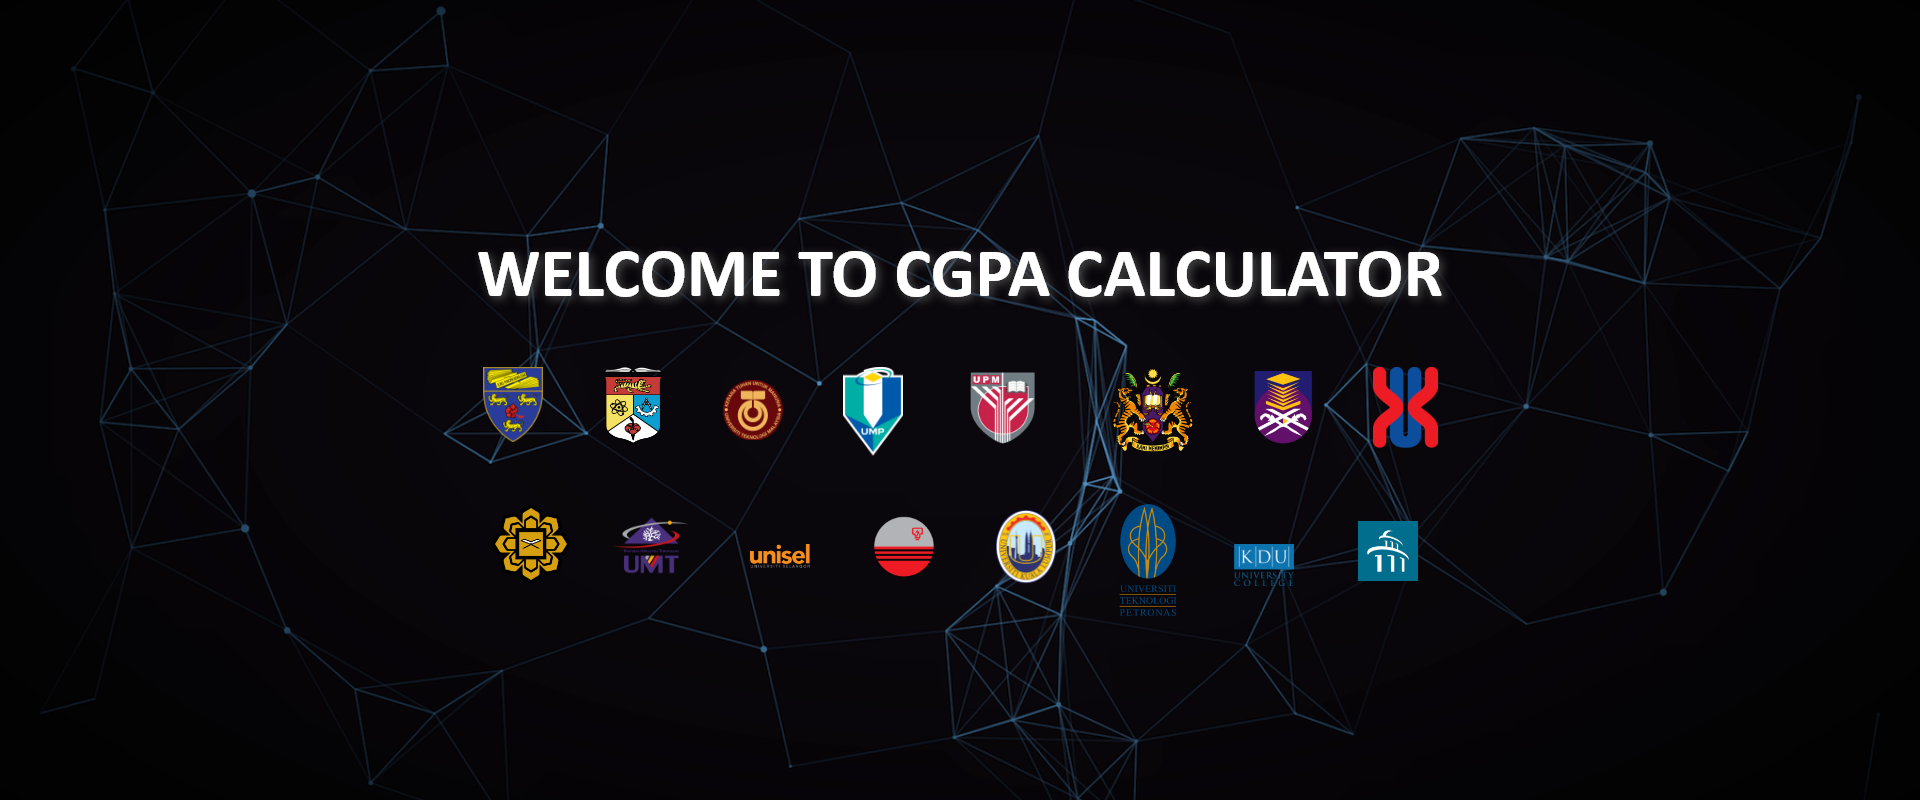
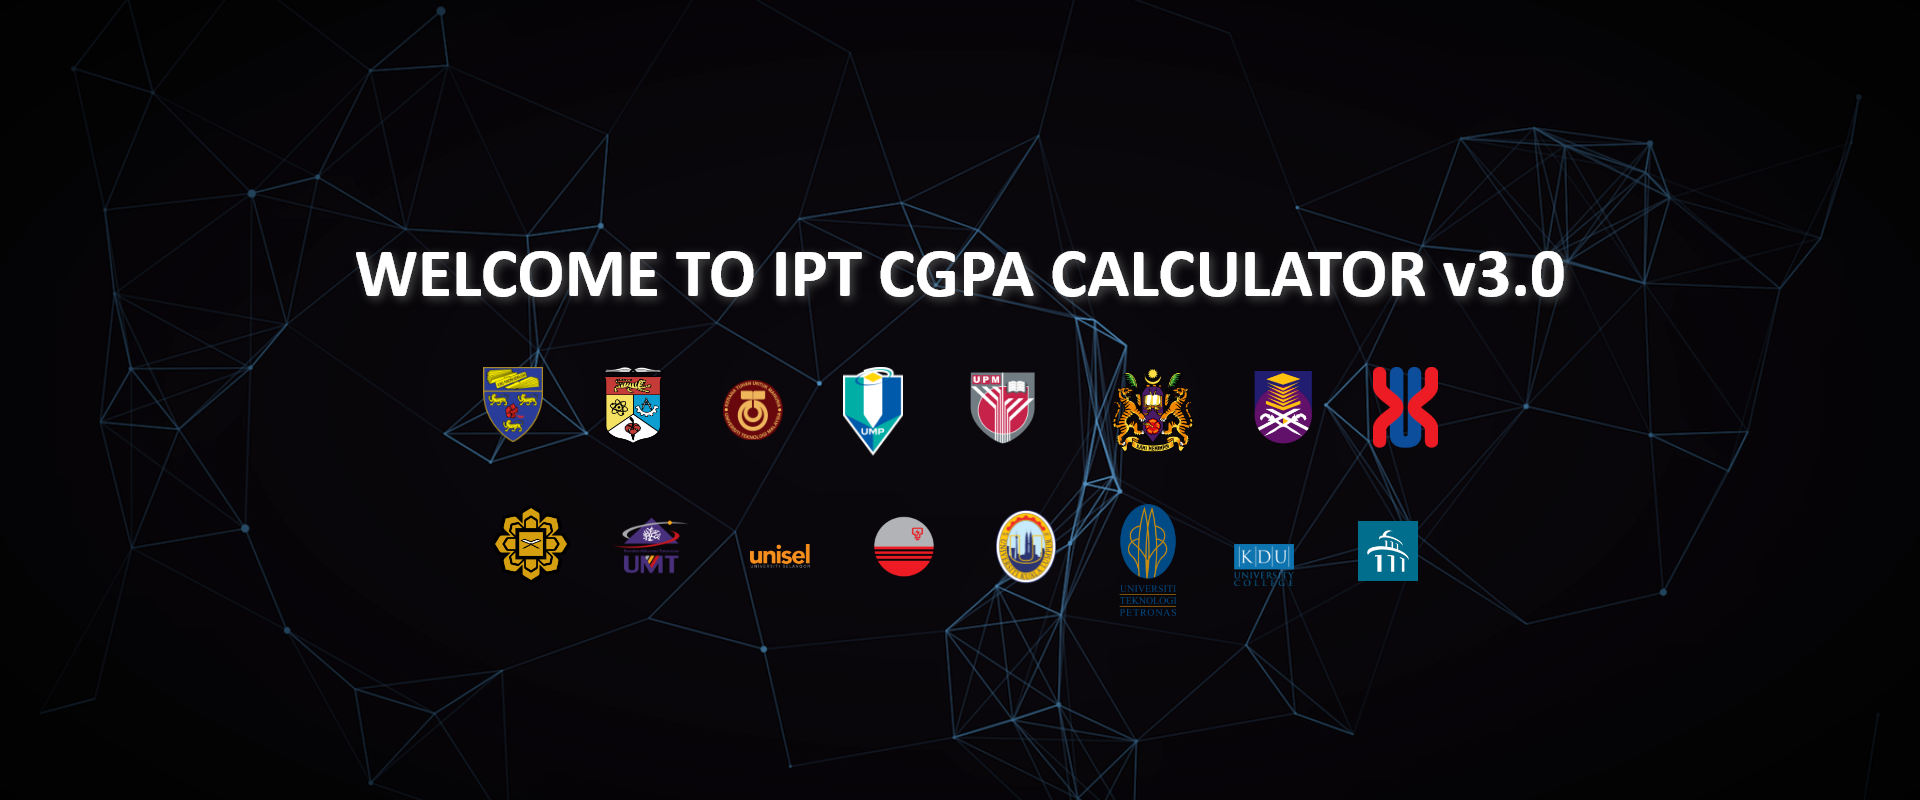
update

Changed region(s): [[0.1875, 0.3125, 0.8125, 0.375]]

diff --git a/index.php b/index.php
@@ -5,7 +5,7 @@
     <meta charset="utf-8">
     <meta name="viewport" content="width=device-width, initial-scale=1, shrink-to-fit=no">
     <meta http-equiv="x-ua-compatible" content="ie=edge">
-    <title>CGPA CALCULATOR</title>
+    <title>IPT CGPA CALCULATOR</title>
 
     <!-- Tab Icon -->
     <link rel="icon" href="/static/images/uplogo.png" type="image/x-icon">
@@ -148,6 +148,11 @@
             <!--Second slide-->
             <div class="carousel-item">
                 <img class="d-block w-100" src="/static/images/background1.png" alt="Second slide">
+            </div>
+            <!--/Second slide-->
+            <!--Second slide-->
+            <div class="carousel-item">
+                <img class="d-block w-100" src="/static/images/background2.png" alt="Third slide">
             </div>
             <!--/Second slide-->
         </div>

diff --git a/timeline.php b/timeline.php
@@ -296,7 +296,7 @@
                                         page into the website. Fix responsiveness of the mobile browser. Added result
                                         slot on CGPA Calculator page and Grade Target Page. Redesign the navigation bar
                                         and footer of the website. Change the dropdown button to the social icon button
-                                        on the navigation bar. Added 3 private universities into the website.
+                                        on the navigation bar. Added 2 private universities into the website.
                                     </p>
                                 </div>
                             </div>

diff --git a/grade_unirazak.php b/grade_unirazak.php
@@ -5,7 +5,7 @@
     <meta charset="utf-8">
     <meta name="viewport" content="width=device-width, initial-scale=1, shrink-to-fit=no">
     <meta http-equiv="x-ua-compatible" content="ie=edge">
-    <title>Grade Target UNIRAZAK</title>
+    <title>GRADE TARGET UNIRAZAK</title>
 
     <!-- Tab Icon -->
     <link rel="icon" href="/static/images/uplogo.png" type="image/x-icon">

diff --git a/grade_unimas.php b/grade_unimas.php
@@ -5,7 +5,7 @@
     <meta charset="utf-8">
     <meta name="viewport" content="width=device-width, initial-scale=1, shrink-to-fit=no">
     <meta http-equiv="x-ua-compatible" content="ie=edge">
-    <title>Grade Target UNIMAS</title>
+    <title>GRADE TARGET UNIMAS</title>
 
     <!-- Tab Icon -->
     <link rel="icon" href="/static/images/uplogo.png" type="image/x-icon">

diff --git a/grade_unisel.php b/grade_unisel.php
@@ -5,7 +5,7 @@
     <meta charset="utf-8">
     <meta name="viewport" content="width=device-width, initial-scale=1, shrink-to-fit=no">
     <meta http-equiv="x-ua-compatible" content="ie=edge">
-    <title>Grade Target UNISEL</title>
+    <title>GRADE TARGET UNISEL</title>
 
     <!-- Tab Icon -->
     <link rel="icon" href="/static/images/uplogo.png" type="image/x-icon">

diff --git a/grade_uniten.php b/grade_uniten.php
@@ -5,7 +5,7 @@
     <meta charset="utf-8">
     <meta name="viewport" content="width=device-width, initial-scale=1, shrink-to-fit=no">
     <meta http-equiv="x-ua-compatible" content="ie=edge">
-    <title>Grade Target UNITEN</title>
+    <title>GRADE TARGET UNITEN</title>
 
     <!-- Tab Icon -->
     <link rel="icon" href="/static/images/uplogo.png" type="image/x-icon">

diff --git a/grade_unikl.php b/grade_unikl.php
@@ -5,7 +5,7 @@
     <meta charset="utf-8">
     <meta name="viewport" content="width=device-width, initial-scale=1, shrink-to-fit=no">
     <meta http-equiv="x-ua-compatible" content="ie=edge">
-    <title>Grade Target UNIKL</title>
+    <title>GRADE TARGET UNIKL</title>
 
     <!-- Tab Icon -->
     <link rel="icon" href="/static/images/uplogo.png" type="image/x-icon">

diff --git a/grade_segi.php b/grade_segi.php
@@ -5,7 +5,7 @@
     <meta charset="utf-8">
     <meta name="viewport" content="width=device-width, initial-scale=1, shrink-to-fit=no">
     <meta http-equiv="x-ua-compatible" content="ie=edge">
-    <title>Grade Target SEGI</title>
+    <title>GRADE TARGET SEGI</title>
 
     <!-- Tab Icon -->
     <link rel="icon" href="/static/images/uplogo.png" type="image/x-icon">

diff --git a/grade_uitm.php b/grade_uitm.php
@@ -5,7 +5,7 @@
     <meta charset="utf-8">
     <meta name="viewport" content="width=device-width, initial-scale=1, shrink-to-fit=no">
     <meta http-equiv="x-ua-compatible" content="ie=edge">
-    <title>Grade Target UITM</title>
+    <title>GRADE TARGET UITM</title>
 
     <!-- Tab Icon -->
     <link rel="icon" href="/static/images/uplogo.png" type="image/x-icon">

diff --git a/grade_upsi.php b/grade_upsi.php
@@ -5,7 +5,7 @@
     <meta charset="utf-8">
     <meta name="viewport" content="width=device-width, initial-scale=1, shrink-to-fit=no">
     <meta http-equiv="x-ua-compatible" content="ie=edge">
-    <title>Grade Target UPSI</title>
+    <title>GRADE TARGET UPSI</title>
 
     <!-- Tab Icon -->
     <link rel="icon" href="/static/images/uplogo.png" type="image/x-icon">

diff --git a/grade_utar.php b/grade_utar.php
@@ -5,7 +5,7 @@
     <meta charset="utf-8">
     <meta name="viewport" content="width=device-width, initial-scale=1, shrink-to-fit=no">
     <meta http-equiv="x-ua-compatible" content="ie=edge">
-    <title>Grade Target UTAR</title>
+    <title>GRADE TARGET UTAR</title>
 
     <!-- Tab Icon -->
     <link rel="icon" href="/static/images/uplogo.png" type="image/x-icon">

diff --git a/grade_kdu.php b/grade_kdu.php
@@ -5,7 +5,7 @@
     <meta charset="utf-8">
     <meta name="viewport" content="width=device-width, initial-scale=1, shrink-to-fit=no">
     <meta http-equiv="x-ua-compatible" content="ie=edge">
-    <title>Grade Target KDU</title>
+    <title>GRADE TARGET KDU</title>
 
     <!-- Tab Icon -->
     <link rel="icon" href="/static/images/uplogo.png" type="image/x-icon">
